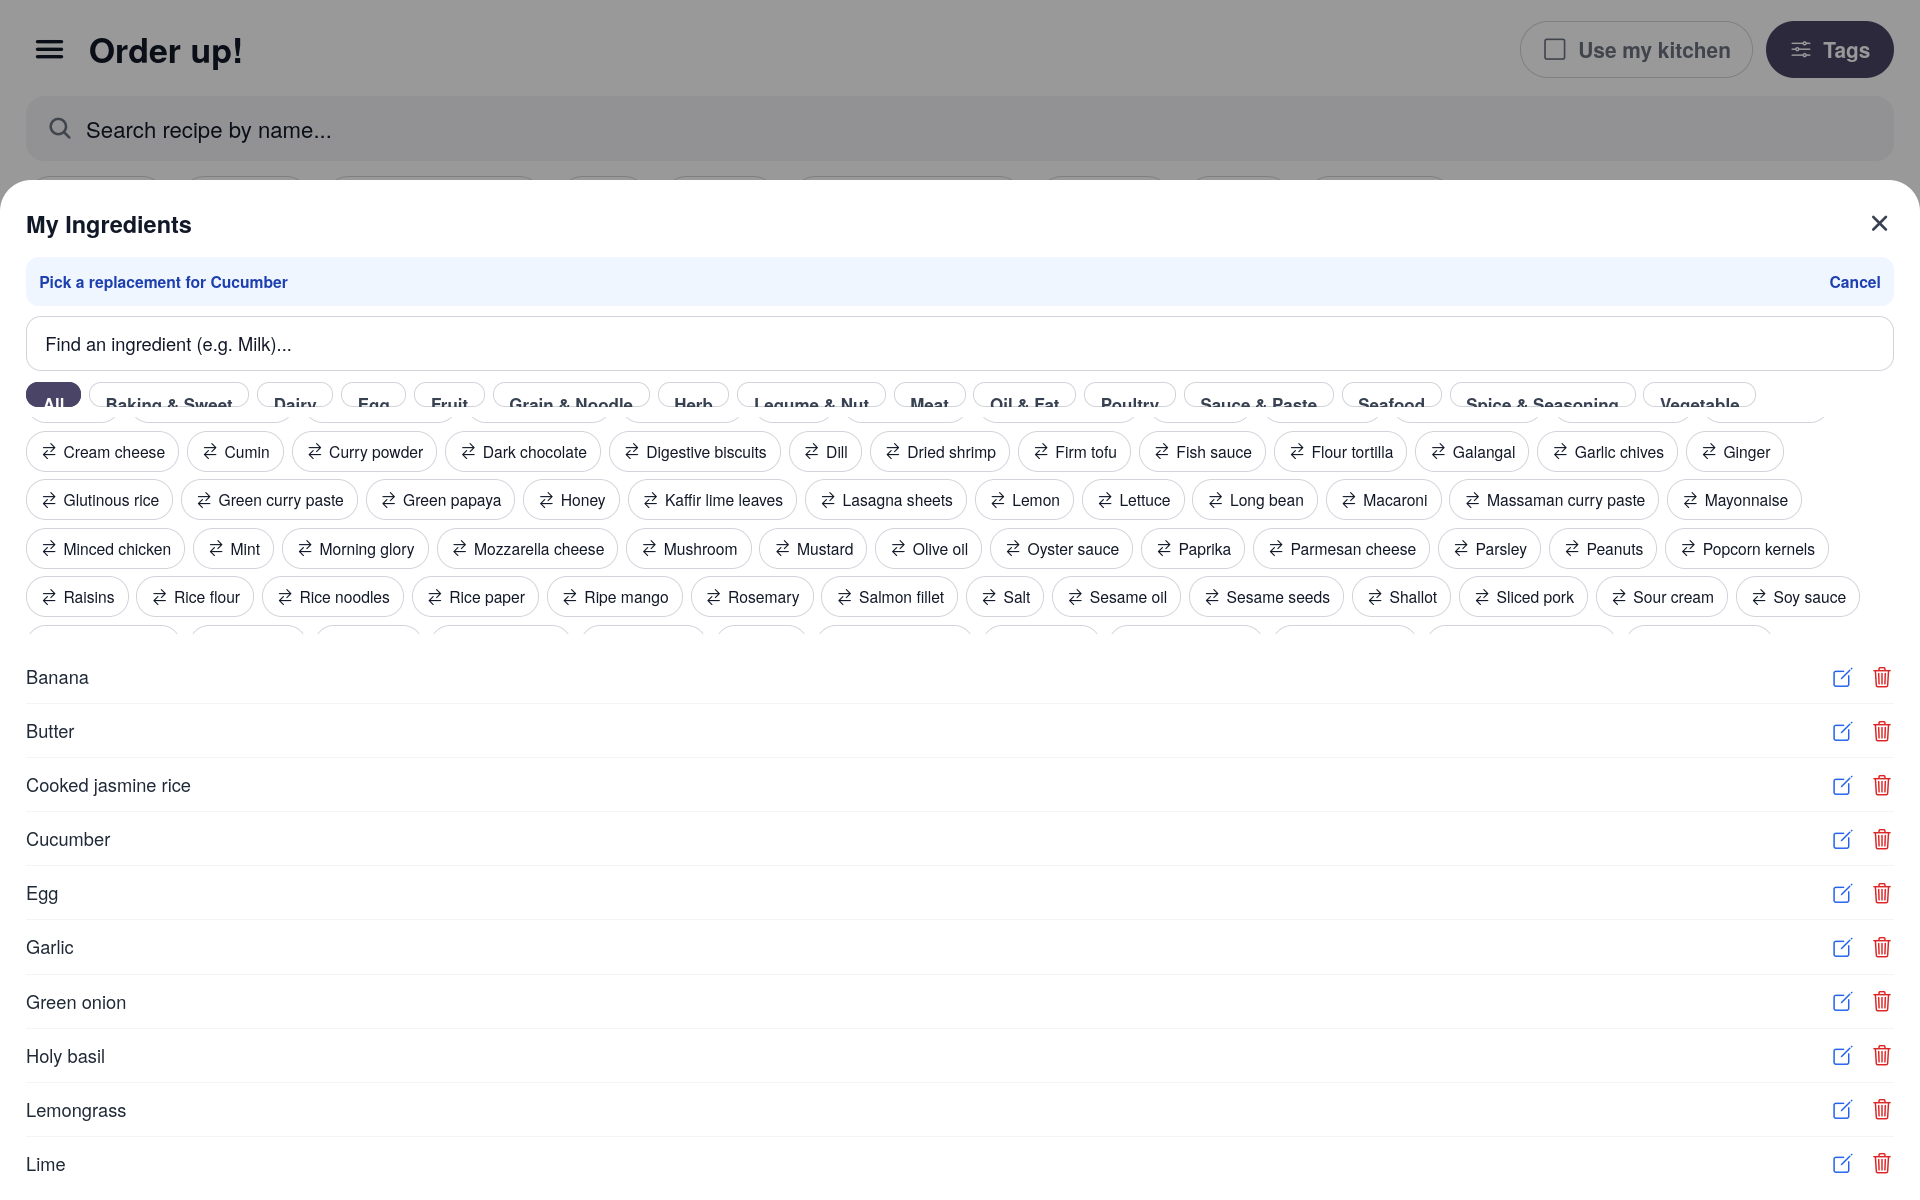
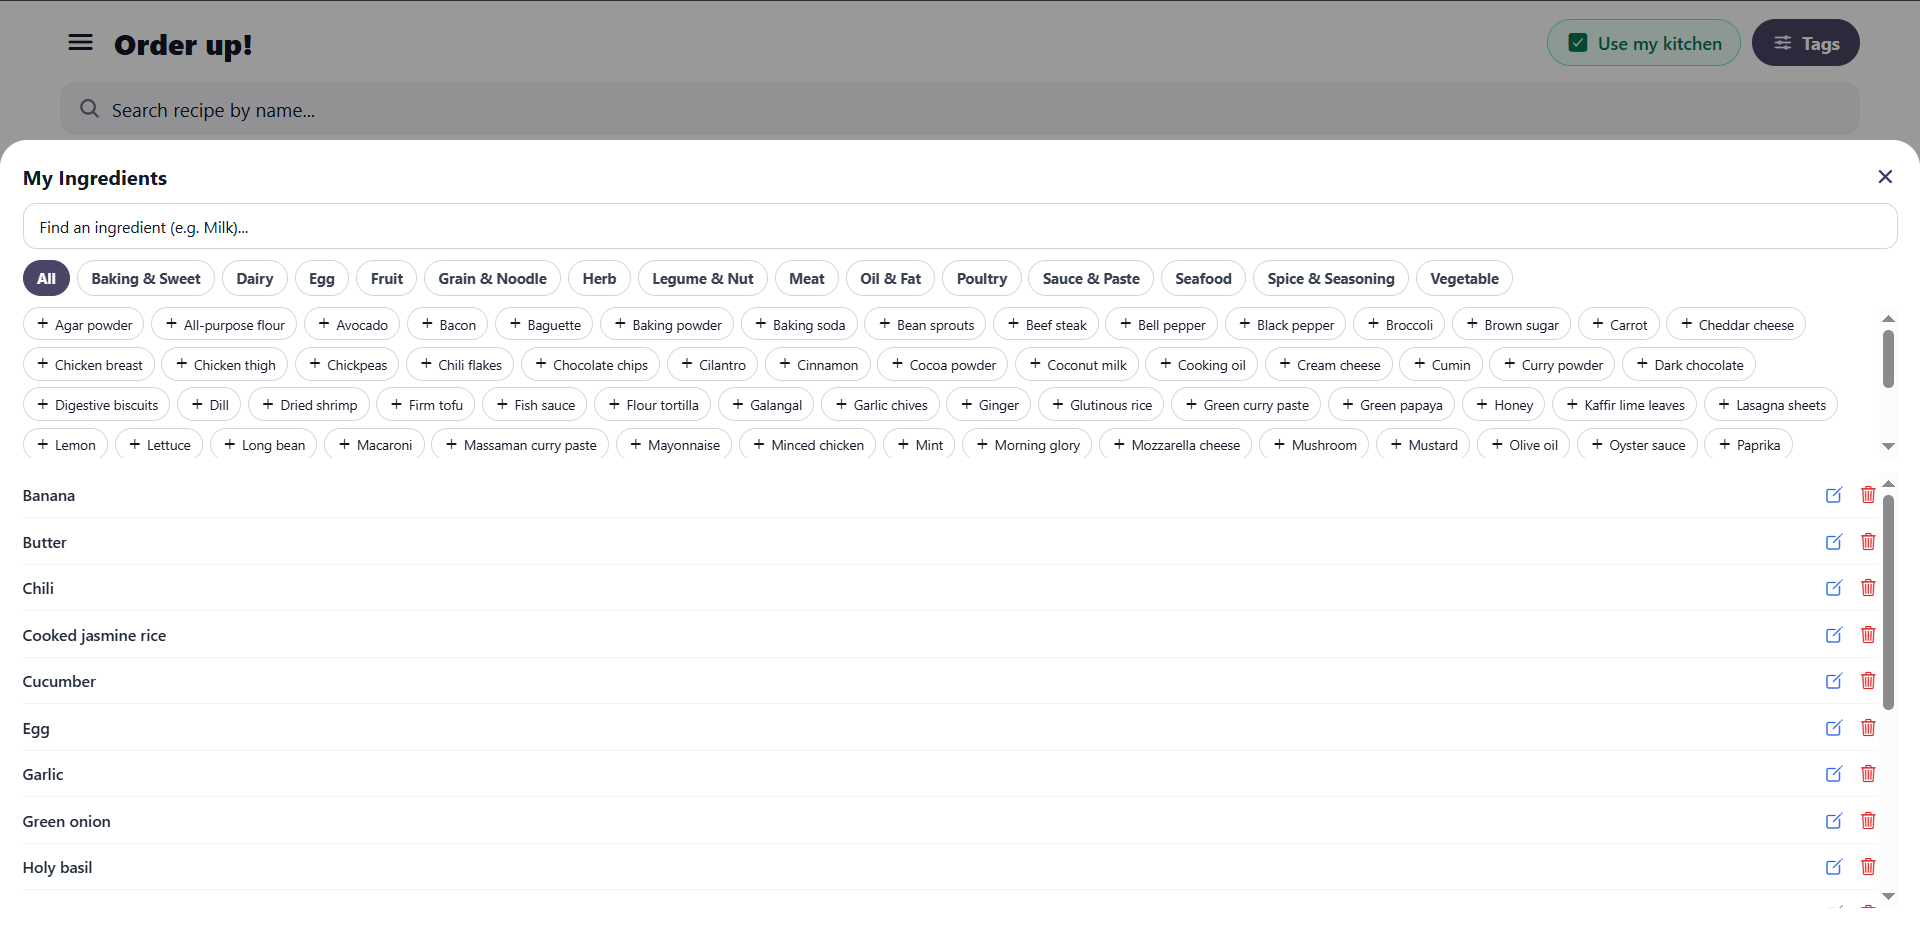
Add readme and screenshot fix

diff --git a/docs/README.md b/docs/README.md
@@ -1,0 +1,46 @@
+## SQL Features
+### The list of recipes
+![](01-list.png)
+### The tagging system filtering recipes
+![](02-tags.png)
+### Recipes with preferences selected
+![](03-preferences.png)
+### Searching for recipes
+![](04-search.png)
+### Page after clicking on a recipe
+![](05-recipe.png)
+### Menu when adding/updating ingredients
+![](06-ingredients.png)
+---
+## CRUD Demonstration
+### **Creating** a new recipe
+![](07-create-recipe.png)
+### The new recipe (**read** functionality)
+![](08-read-recipe.png)
+### **Updating** a recipe
+![](09-update-recipe.png)
+### **Deleting** a recipe
+![](10-delete-recipe.png)
+---
+## NoSQL Features
+### Bookmarking recipes
+![](11-bookmark-1.png)
+### Filtering by bookmarks
+![](12-bookmark-2.png)
+### Search history
+![](13-search-history.png)
+### Audit log
+![](14-audit-log.png)
+---
+## Transaction fail
+### Before
+![](15-bookmark-remove-fail-1.png)
+### Action
+![](15-bookmark-remove-fail-2.png)
+### After
+![](15-bookmark-remove-fail-3.png)
+## Transaction success
+### Action
+![](16-bookmark-remove-success-1.png)
+### After
+![](16-bookmark-remove-success-2.png)
